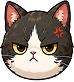
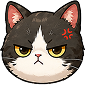
feat

diff --git a/src/components/GameBoard.vue b/src/components/GameBoard.vue
@@ -3,6 +3,16 @@ import { onMounted, ref } from "vue";
 import Matter from "matter-js";
 import lv1Img from "../img/gameIcon/lv1.png";
 import lv2Img from "../img/gameIcon/lv2.png";
+import lv3Img from "../img/gameIcon/lv3.png";
+import lv4Img from "../img/gameIcon/lv4.png";
+import lv5Img from "../img/gameIcon/lv5.png";
+import lv6Img from "../img/gameIcon/lv6.png";
+import lv7Img from "../img/gameIcon/lv7.png";
+import lv8Img from "../img/gameIcon/lv8.png";
+import lv9Img from "../img/gameIcon/lv9.png";
+import lv10Img from "../img/gameIcon/lv10.png";
+
+
 /* =========================
    Vue 狀態資料
    ========================= */
@@ -36,13 +46,13 @@ const BALL_SIZES = {
   1: 40,
   2: 52,
   3: 64,
-  4: 76,
-  5: 88,
-  6: 100,
-  7: 112,
-  8: 124,
-  9: 136,
-  10: 148,
+  4: 84,
+  5: 104,
+  6: 124,
+  7: 140,
+  8: 150,
+  9: 164,
+  10: 184,
 };
 
 // 依照等級計算球半徑
@@ -55,6 +65,14 @@ function getBallRadius(level) {
 const BALL_IMAGES = {
   1: lv1Img,
   2: lv2Img,
+  3: lv3Img,
+  4: lv4Img,
+  5: lv5Img,
+  6: lv6Img,
+  7: lv7Img,
+  8: lv8Img,
+  9: lv9Img,
+  10: lv10Img,
 };
 
 // 不同等級的球顏色
@@ -92,7 +110,7 @@ function movePreview(event) {
 
 // 隨機產生 LV1～LV3 的球
 function getRandomLevel() {
-  return Math.floor(Math.random() * 4) + 1;
+  return Math.floor(Math.random() * 10) + 1;
 }
 
 // 根據球的等級決定要使用圖片還是顏色
@@ -110,11 +128,15 @@ function getBallRender(level) {
     };
   }
 
+
   return {
     fillStyle: BALL_COLORS[level],
   };
 }
 
+function getBallImage(level) {
+  return BALL_IMAGES[level] || null;
+}
 
 /* =========================
    Matter.js 物理引擎變數
@@ -240,7 +262,8 @@ onMounted(() => {
     event.pairs.forEach((pair) => {
       const ballA = pair.bodyA;
       const ballB = pair.bodyB;
-
+      這段用來關閉合成
+      // const ENABLE_MERGE = false;
       // 只有兩顆都有 level，且 level 相同時才合成　 標記正在合成中
       if (
         ballA.level &&
@@ -249,6 +272,8 @@ onMounted(() => {
         !ballA.isMerging &&
         !ballB.isMerging
       ) {
+        這段用來關閉合成
+        // if (!ENABLE_MERGE) return;
         ballA.isMerging = true;
         ballB.isMerging = true;
 
@@ -277,9 +302,9 @@ onMounted(() => {
           render: getBallRender(newLevel),
         });
 
-    // 加入新球
-    Composite.add(engine.world, newBall);
-  }
+        // 加入新球
+        Composite.add(engine.world, newBall);
+      }
     });
   });
 });
@@ -333,11 +358,17 @@ function addBall(event) {
     <div class="game-wrapper">
       <div ref="gameBoard" class="game-board" @mousemove="movePreview" @click="addBall">
         <div class="game-over-line"></div>
-        <div class="preview-ball" :style="{
+        <img v-if="getBallImage(currentLevel)" class="preview-ball" :src="getBallImage(currentLevel)" :style="{
+          left: `${previewX}px`,
+          width: `${BALL_SIZES[currentLevel]}px`,
+          height: `${BALL_SIZES[currentLevel]}px`,
+        }" />
+
+        <div v-else class="preview-ball" :style="{
           left: `${previewX}px`,
           backgroundColor: BALL_COLORS[currentLevel],
-          width: `${getBallRadius(currentLevel) * 2}px`,
-          height: `${getBallRadius(currentLevel) * 2}px`,
+          width: `${BALL_SIZES[currentLevel]}px`,
+          height: `${BALL_SIZES[currentLevel]}px`,
         }"></div>
       </div>
     </div>
@@ -345,10 +376,15 @@ function addBall(event) {
     <div class="next-box">
       <p>Next:</p>
 
-      <div class="next-ball" :style="{
+      <img v-if="getBallImage(nextLevel)" class="next-ball" :src="getBallImage(nextLevel)" :style="{
+        width: `${BALL_SIZES[nextLevel]}px`,
+        height: `${BALL_SIZES[nextLevel]}px`,
+      }" />
+
+      <div v-else class="next-ball" :style="{
         backgroundColor: BALL_COLORS[nextLevel],
-        width: `${getBallRadius(nextLevel) * 2}px`,
-        height: `${getBallRadius(nextLevel) * 2}px`,
+        width: `${BALL_SIZES[nextLevel]}px`,
+        height: `${BALL_SIZES[nextLevel]}px`,
       }"></div>
     </div>
   </div>
@@ -394,10 +430,10 @@ function addBall(event) {
 
 .preview-ball {
   position: absolute;
-  border-radius: 50%;
   transform: translateX(-50%);
   pointer-events: none;
-  opacity: 0.7;
+  opacity: 0.8;
+  object-fit: contain;
 }
 
 .side-panel {
@@ -416,7 +452,6 @@ function addBall(event) {
 }
 
 .next-ball {
-  border-radius: 50%;
   margin-top: 12px;
 }
 